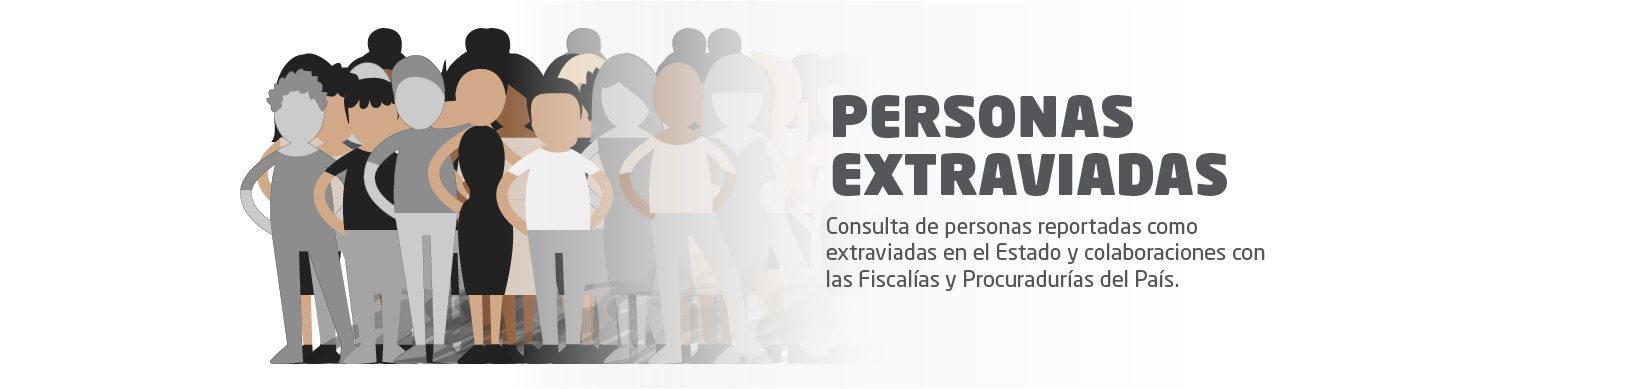
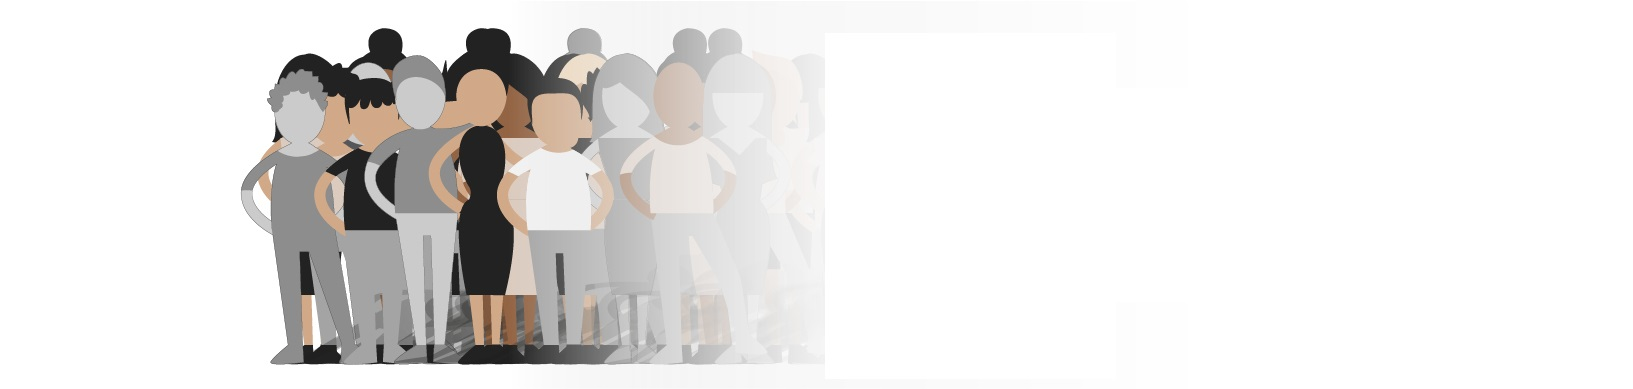
Slider, modal de ayuda, calendario y modal de error en desaparecidos

Changed region(s): [[0.5, 0.2468, 0.75, 0.5244], [0.5, 0.5553, 0.7812, 0.7404], [0.2188, 0.2468, 0.25, 0.2776]]

diff --git a/desaparecidos/index4.html b/desaparecidos/index4.html
@@ -99,41 +99,53 @@
 <img class="img-responsive center barra" src="./img/barra.png"/>
 
 
-<div id="myCarousel" class="carousel slide" data-ride="carousel" align="center" data-interval="8000">
-   <!-- Indicators -->
-   <ol class="carousel-indicators">
-     <li data-target="#myCarousel" data-slide-to="0" class="active"></li>
-     <li data-target="#myCarousel" data-slide-to="1"></li>
-     <li data-target="#myCarousel" data-slide-to="2"></li>
- </ol>
+        <div id="myCarousel" class="carousel slide" data-ride="carousel" align="left" data-interval="8000">
+            <!-- Indicators -->
+            <ol class="carousel-indicators">
+                <li data-target="#myCarousel" data-slide-to="0" class="active"></li>
+                <li data-target="#myCarousel" data-slide-to="1"></li>
+                <li data-target="#myCarousel" data-slide-to="2"></li>
+            </ol>
+            <!-- Wrapper for slides -->
+            <div class="carousel-inner slider">
+                <div class="item active">
+                    <img class="visible-xs" src="img/slide1.jpg" alt="Slide1">
+                    <img class="hidden-xs" src="img/slide2.jpg" alt="Slide1">
+                    <div class="visible-xs text-slider">
+                        <h3 style="margin: 0px;"><strong>PERSONAS DESAPARECIDAS</strong></h3>
+                        <p>Consulta de personas reportadas como desaparecidas en el Estado y colaboraciones con Fiscalías y Procuradurías del País.</p>
+                    </div>
+                </div>
+                <div class="item">
+                    <img class="visible-xs" src="img/slide1.jpg" alt="Slide1">
+                    <img class="hidden-xs" src="img/slide2.jpg" alt="Slide1">
+                    <div class="visible-xs text-slider">
+                        <h3 style="margin: 0px;"><strong>PERSONAS DESAPARECIDAS</strong></h3>
+                        <p>Consulta de personas reportadas como desaparecidas en el Estado y colaboraciones con Fiscalías y Procuradurías del País.</p>
+                    </div>
+                </div>
+                <div class="item">
+                    <img class="visible-xs" src="img/slide1.jpg" alt="Slide1">
+                    <img class="hidden-xs" src="img/slide2.jpg" alt="Slide1">
+                    <div class="visible-xs text-slider">
+                        <h3 style="margin: 0px;"><strong>PERSONAS DESAPARECIDAS</strong></h3>
+                        <p>Consulta de personas reportadas como desaparecidas en el Estado y colaboraciones con Fiscalías y Procuradurías del País.</p>
+                    </div>
+                </div>
+            </div>
+            <!-- Left and right controls -->
+            <a class="left carousel-control" href="#myCarousel" data-slide="prev">
+                <span class="glyphicon glyphicon-chevron-left"></span>
+                <span class="sr-only">Previous</span>
+            </a>
+            <a class="right carousel-control" href="#myCarousel" data-slide="next">
+                <span class="glyphicon glyphicon-chevron-right"></span>
+                <span class="sr-only">Next</span>
+            </a>
+        </div>
 
- <!-- Wrapper for slides -->
- <div class="carousel-inner">
-    <div class="item active">
-        <img src="img/slide1.jpg" alt="Slide1" style="width:80%;">
-    </div>
-
-    <div class="item">
-        <img src="img/slide1.jpg" alt="Slide2" style="width:80%;">
-    </div>
-
-    <div class="item">
-        <img src="img/slide1.jpg" alt="Slide3" style="width:80%;">
-    </div>
-</div>
-
-<!-- Left and right controls -->
-<a class="left carousel-control" href="#myCarousel" data-slide="prev">
- <span class="glyphicon glyphicon-chevron-left"></span>
- <span class="sr-only">Previous</span>
-</a>
-<a class="right carousel-control" href="#myCarousel" data-slide="next">
- <span class="glyphicon glyphicon-chevron-right"></span>
- <span class="sr-only">Next</span>
-</a>
-</div>
 <div class="panel panel-default">
-  <div class="panel-heading panel-heading-customd" align="center"><h4>Llama al Centro de Atención Telefónica (228) 841-61-70<br>
+  <div class="panel-heading panel-heading-customd" align="center"><h4 class="info-llama">Llama al Centro de Atención Telefónica (228) 841-61-70<br>
     y proporciona los datos de la persona que buscas para que te auxilien en el proceso si así lo prefieres.</h4></div>
 </div>
 <p>
@@ -198,27 +210,36 @@
             <button type="button" href='javascript:;' onclick="limpiar();" class="btn btn-gris btn-block"><h6>Limpiar</h6></button>
         </div>
     </div>
-    <div class="col-md-2 col-xs-2">
-        <div class="form-group">
-        </div>
-    </div>
-    <div class="col-md-2 col-xs-2">
-        <div class="form-group">
-        </div>
-    </div>
-    <div class="col-md-2 col-xs-2">
-        <div class="form-group">
-        </div>
-    </div>
-    <div class="col-md-2 col-xs-2">
-        <div class="form-group">
-            <h6><span class="glyphicon glyphicon-question-sign" aria-hidden="true"></span> Ayuda</h6>
-        </div>
-    </div>
+    <div class="col-xs-12 col-md-8 text-right">
+                                <h6><a onclick="displayHelp();" title="Consulta la Ayuda para el uso del sitio" class="help-block" style="cursor: pointer;"><span class="glyphicon glyphicon-question-sign" aria-hidden="true"></span> Ayuda</a></h6>
+                                    
+                            </div>
 </div>
 </div>
 </div>    
 </div> 
+
+<!--Modal ayuda-->
+        <!-- Modal -->
+<div id="modalHelp" class="modal fade" role="dialog">
+  <div class="modal-dialog">
+
+    <!-- Modal content-->
+    <div class="modal-content">
+      <div class="modal-header">
+        <button type="button" class="close" data-dismiss="modal">&times;</button>
+        <h4 class="modal-title text-center">REGISTRO PUBLICO DE PERSONAS DESAPARECIDAS</h4>
+      </div>
+      <div class="modal-body text-justify">
+        <p>Este registro está integrado por los datos de las personas no localizadas, las cuales fueron reportadas ante esta autoridad. Este registro solo contiene información de las personas que no han sido localizadas. El proceso de búsqueda en este Registro de Personas no Localizadas es de fácil uso, por lo que usted podrá realizar la búsqueda por uno, todos o la combinación de los rubros de: Nombre, Apellido Paterno, Apellido Materno, Edad y/o Sexo. Posterior a colocar la información por la que usted desea realizar la búsqueda, debe realizar un clic en el botón de Buscar, y en la parte inferior de la pantalla se desplegará las fotos de las personas no localizadas. Si desea visualizar más detalle de la persona no localizada deberá realizar un clic sobre la imagen de la foto a consultar.</p>
+      </div>
+      <div class="modal-footer">
+        <button type="button" class="btn btn-default" data-dismiss="modal">Cerrar</button>
+      </div>
+    </div>
+
+  </div>
+</div>
 
 <div class="alert alert-warning-alt">
     <a href="#" class="close" data-dismiss="alert" aria-label="close">&times;</a>
@@ -242,7 +263,7 @@
 <!-- Modal -->
 <div class="modal fade" id="danger" tabindex="-1" role="dialog" aria-labelledby="myModalLabel" aria-hidden="true">
     <div class="modal-dialog">
-        <div class="modal-content">
+        <div class="modal-content" id="modal2">
             <div class="modal-header modal-header-danger">
                 <button type="button" class="close" data-dismiss="modal" aria-hidden="true">×</button>
             </div>
@@ -297,8 +318,12 @@
 <input type="hidden" name="pags"  id="pags" value="0">
 
 <script>
+    function displayHelp(){
+               $("#modalHelp").modal();
+             }
+
     $( document ).ready(function() {
-	$('#siguiente').hide();
+	   $('#siguiente').hide();
         $('#anterior').hide();
         var datos;
         $(function (){
@@ -308,7 +333,7 @@
                 endDate: "today",
                 todayBtn: "linked",
                 language: "es",
-                orientation: "top right",
+                orientation: "auto",
                 multidate: false,
                 todayHighlight: true,
                 autoclose: true

diff --git a/desaparecidos/css/header.css b/desaparecidos/css/header.css
@@ -68,6 +68,10 @@
 }
 
 /*Slider*/
+.slider{
+    min-height: 0px;
+    max-height: 290px;
+}
 .carousel-indicators>li{
     background-color: #fff;
     border-color: #555659;
@@ -91,6 +95,9 @@
 .text-slider>p{
     font-size: 1rem;
 }
+.info-llama{
+    font-size: 1rem;
+}
 @media (min-width: 420px) {
     .titulo1, .titulo2{
         font-size: 1.5rem;
@@ -100,6 +107,9 @@
     }
     .text-slider>h3{
         font-size: 2.5rem;
+    }
+    .info-llama{
+        font-size: 1.4rem;
     }
 }
 /* Small devices (tablets, 768px and up) */
@@ -120,11 +130,17 @@
     .text-slider>h3{
         font-size: 3rem;
     }
+    .info-llama{
+        font-size: 1.6rem;
+    }
 }
 /* Medium devices (desktops, 992px and up) */
 @media (min-width: 992px) {
     .titulo1, .titulo2{
         font-size: 2.5rem;
+    }
+    .info-llama{
+        font-size: 1.8rem;
     }
 }
 /* Large devices (large desktops, 1200px and up) */
@@ -132,9 +148,37 @@
     .titulo1, .titulo2{
         font-size: 3.1rem;
     }
+    .info-llama{
+        font-size: 2rem;
+    }
+}
+.modal {
+  text-align: center;
+  padding: 0!important;
 }
 
+.modal:before {
+  content: '';
+  display: inline-block;
+  height: 100%;
+  vertical-align: middle;
+  margin-right: -4px;
+}
 
+.modal-dialog {
+  display: inline-block;
+  text-align: left;
+  vertical-align: middle;
+}
+
+.modal-dialog, .modal-content, .modal-header{
+    border-radius: 5px;
+}
+
+#modal2{
+    background-color: #FDDDDD;
+    border: 1px solid  #933432;
+}
 
 
 

diff --git a/detenidos/index2.html b/detenidos/index2.html
@@ -87,7 +87,7 @@
 				<li data-target="#myCarousel" data-slide-to="2"></li>
 			</ol>
 			<!-- Wrapper for slides -->
-			<div class="carousel-inner">
+			<div class="carousel-inner slider">
 				<div class="item active">
 					<img class="visible-xs" src="img/slide1.jpg" alt="Slide1">
 					<img class="hidden-xs" src="img/slide2.jpg" alt="Slide1">
@@ -127,7 +127,6 @@
 			</a>
 		</div>
 
-		<!--media query para tamaño de letra chico-->
 		<div class="panel panel1">
 			<div class="panel-heading panel-heading-customd" align="center">
 				<h5 class="info-llama">Llama al Centro de Atención Telefónica (228) 841-61-70<br>

diff --git a/detenidos/css/header.css b/detenidos/css/header.css
@@ -68,6 +68,10 @@
 }
 
 /*Slider*/
+.slider{
+    min-height: 0px;
+    max-height: 290px;
+}
 .carousel-indicators>li{
     background-color: #fff;
     border-color: #58595B;
